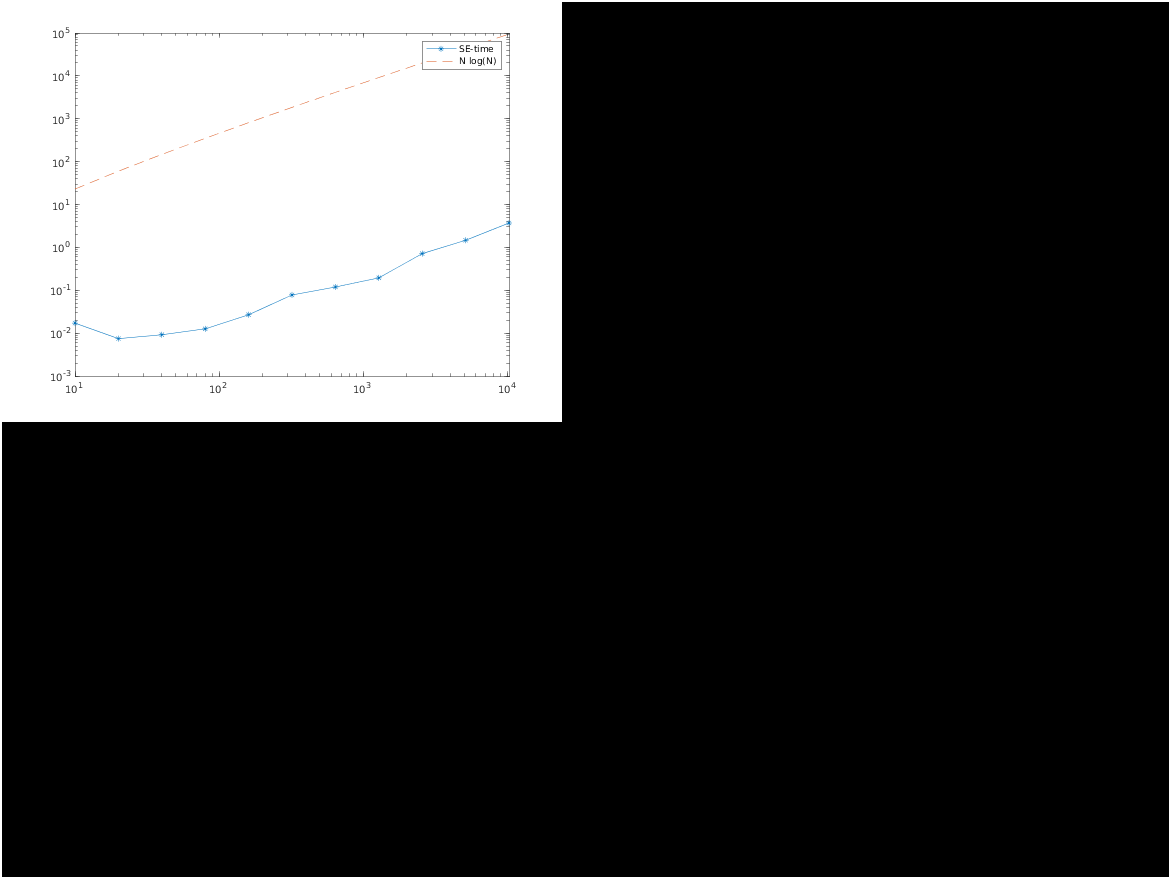
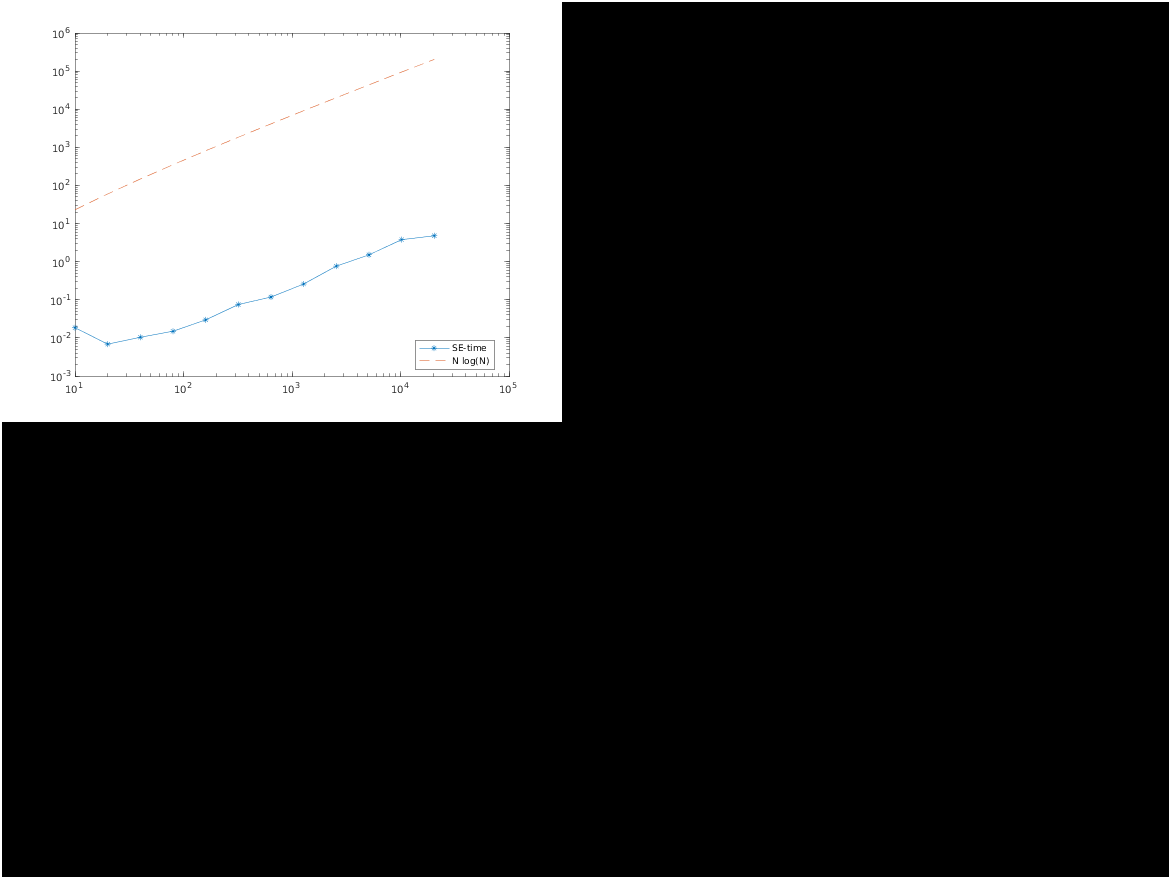
imgs

diff --git a/SE_Stokes_run/SE3P_Stokes/time_compl.m b/SE_Stokes_run/SE3P_Stokes/time_compl.m
@@ -3,7 +3,7 @@
 %%setup
 clear
 rng(1);
-NN = 10*2.^[0:1:12]; % number of source particles
+NN = 10*2.^[0:1:11]; % number of source particles
 
 
 %% Parameter selection
@@ -34,7 +34,7 @@ end
 loglog(NN,timings,'-*')
 hold on
 loglog(NN,NN.*log(NN),'--')
-legend('SE-time','N log(N)')
+legend('SE-time','N log(N)','Location','Best')
 
 exportgraphics(gcf,'complexity.png')
 disp(timings)
